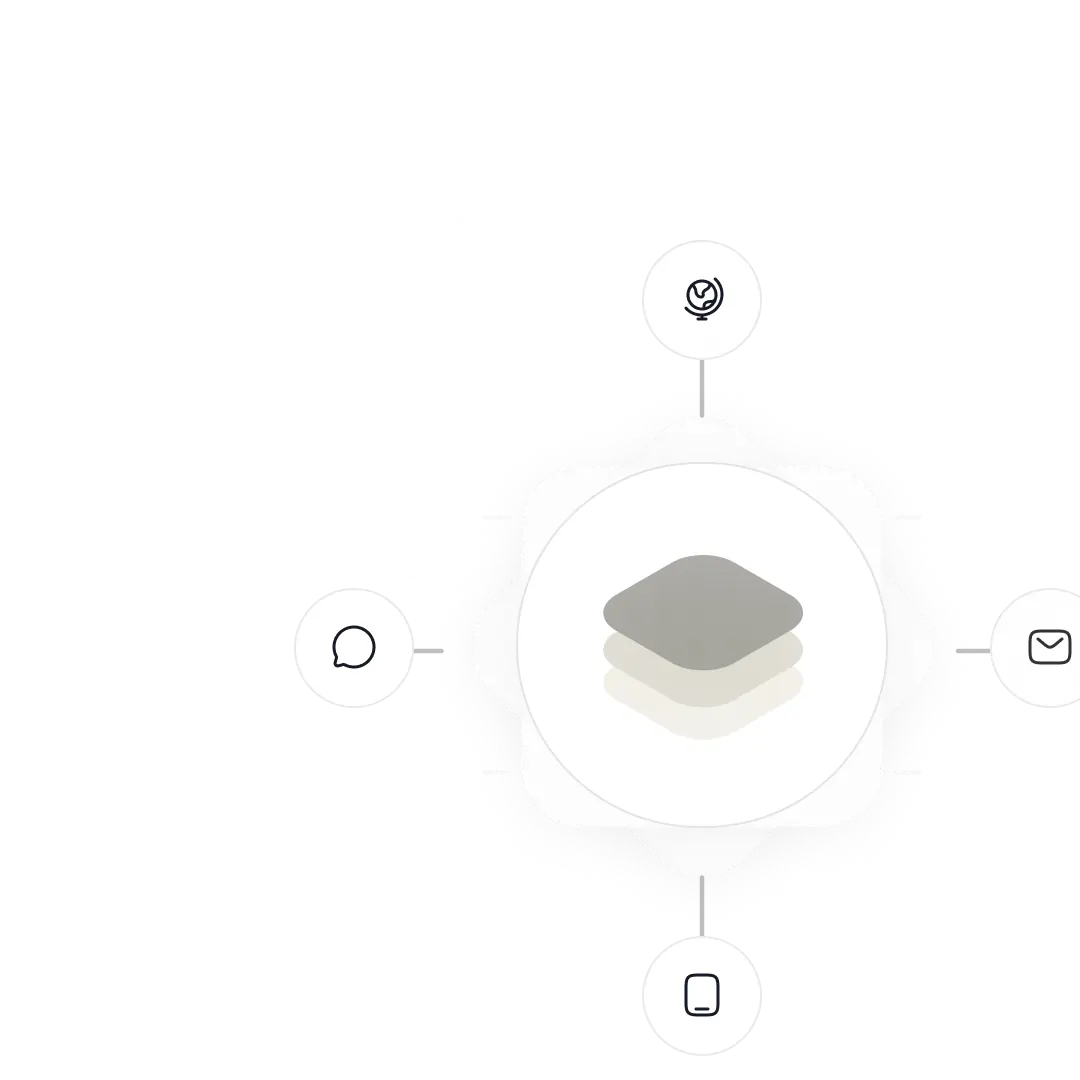
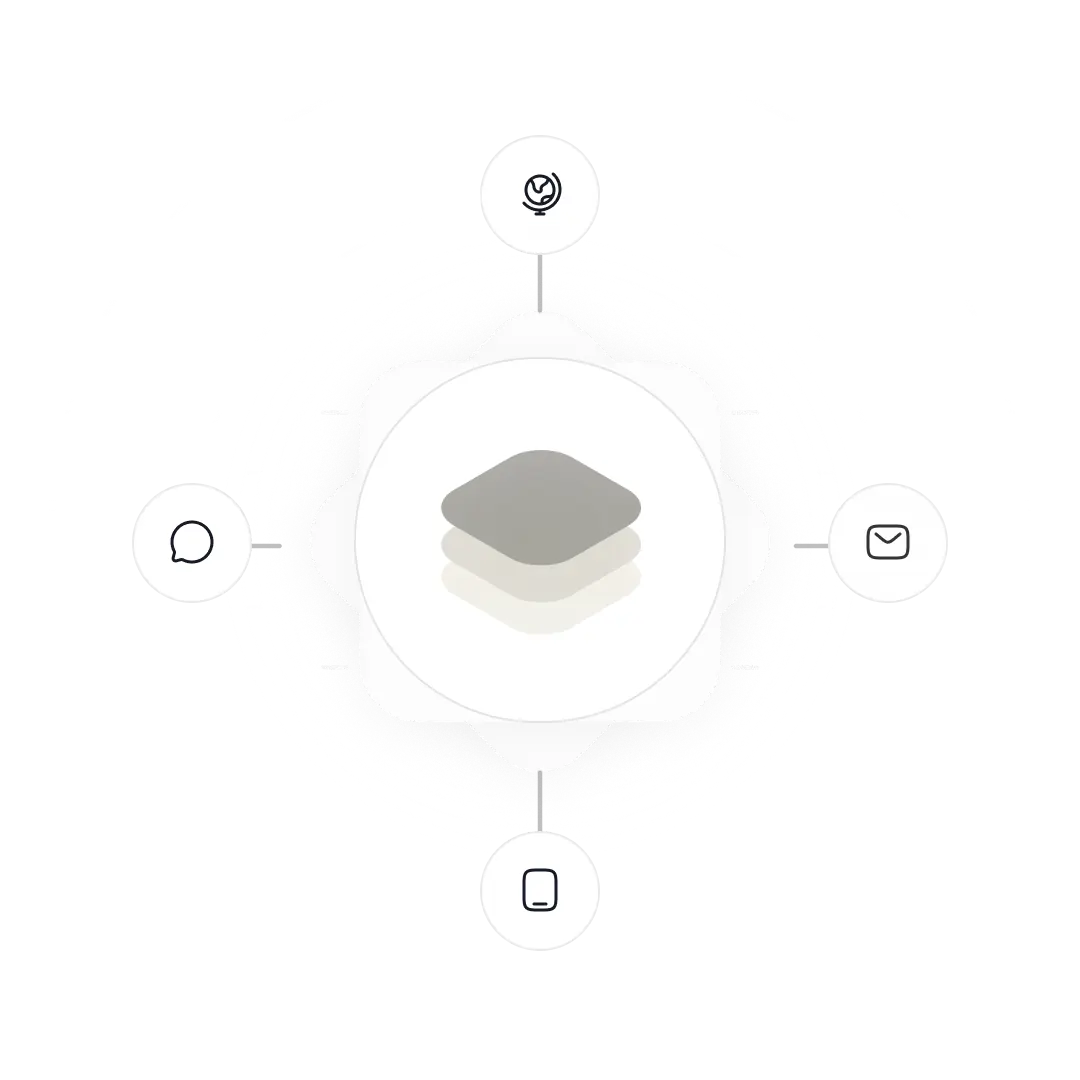
Centre the solution figures and bring their ground onto the palette
The foregrounds were exported without use_absolute_bounds, so each PNG carried
its shadow and blur bleed outside the node box. Compositing those at the node
offsets clipped the wide ones and knocked every subject off centre: the hub sat
10% low, the console 5% right, and the apparent scales ranged from 64% to 97%
of the frame rather than the 64/92/80 the frames actually specify. Re-exported
at absolute bounds, so the offsets land and the design's own centring and
proportions come out without any correction.

The ground was #F1EEE9, a warm cream and the only warm value in a palette that
runs neutral to violet. --surface-inset starts at the same 241, so swapping to
it keeps the separation the frame designed while dropping the warm cast. The
dot ink was nearly black from matching the raster's contrast statistically,
which read far heavier than a texture should; --ink-faint keeps it a wash.

diff --git a/src/components/DotCloud.tsx b/src/components/DotCloud.tsx
@@ -14,14 +14,20 @@ import { useEffect, useRef } from "react";
  * 53% in the frame, and clusters correlating over roughly 220 rendered px.
  */
 
-/** Warm off-white, the fill the frames sit on. */
-const GROUND = "#F1EEE9";
 /**
- * Dot ink. Nearly black on purpose: each dot covers about 2% of its cell, so
- * the field still reads as a light wash, and a lighter ink flattens the
- * clusters out — matching the raster took this rather than a mid grey.
+ * The frames sit on #F1EEE9, a warm cream — the one warm value in a palette
+ * that runs neutral to violet everywhere else. `--surface-inset` is the same
+ * lightness (both start at 241) with the hue brought back onto the family, so
+ * the ground keeps the separation the frame designed and stops reading as a
+ * different system.
  */
-const INK = "8, 8, 7";
+const GROUND = "#F1F1F3";
+/**
+ * Dot ink: `--ink-faint`. Matching the raster's contrast statistically took an
+ * almost black dot, which read far heavier than the texture should — this is
+ * the palette's faint step instead, and the field stays a wash.
+ */
+const INK = "161, 160, 169";
 /** Distance between dots, in CSS px. */
 const PITCH = 9;
 /** Dot radius at full weight. */
